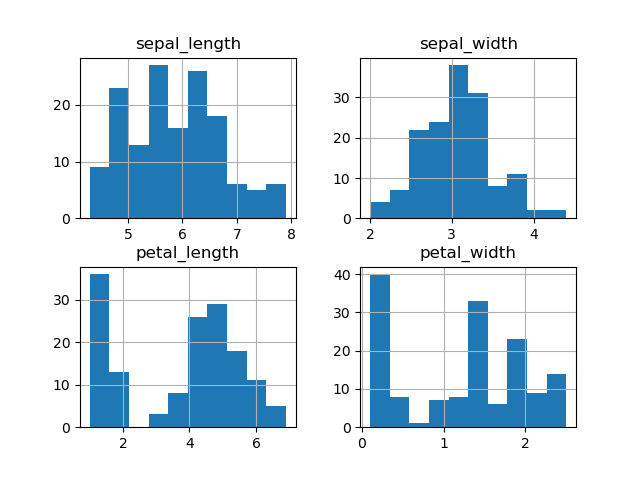
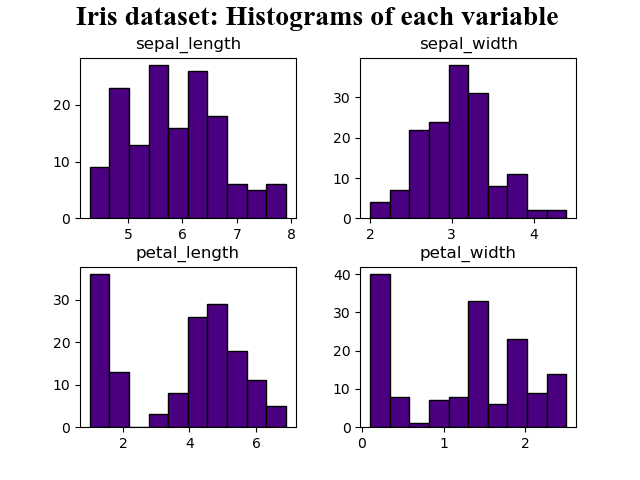
Add: customise histograms for Task 2

diff --git a/task2test.py b/task2test.py
@@ -4,14 +4,24 @@ import matplotlib.pyplot as plt
 import numpy as py
 
 path = '../pands-project/'
-filename = path + 'iris_data'
+filename = path + 'iris_data.csv'
 
 iris_data = pd.read_csv(filename)
 iris_data.columns = ['sepal_length','sepal_width','petal_length','petal_width','species']
 
 # histogram
-iris_data.hist()
+iris_data.hist(color='indigo', edgecolor='black', grid=False)
+plt.text(-3.5, 105,'Iris dataset: Histograms of each variable', 
+                fontname='Times New Roman',
+                fontsize=20, 
+                fontweight='bold'
+                )
+
 # test the output using code below
 # plt.show()
-# save tfigsavefigo a png file
+# save fig to a png file
 plt.savefig("iris_data.png")
+
+
+
+

diff --git a/analysis.py b/analysis.py
@@ -28,7 +28,7 @@ with open('irisVariablesSummary.txt', 'w') as f:
         f.write(line)
         f.write('\n')
 
-summary = df.describe()
+summary = iris_data.describe()
 print(summary)
 
 with open('irisVariablesSummary.txt', 'a') as f:
@@ -46,7 +46,7 @@ with open('irisVariablesSummary.txt', 'a') as f:
 
 # task 2: The below code saves a histogram of each variable to png files
 
-df.plot.bar()
+iris_data.plot.bar()
 plt.show()
 
 
